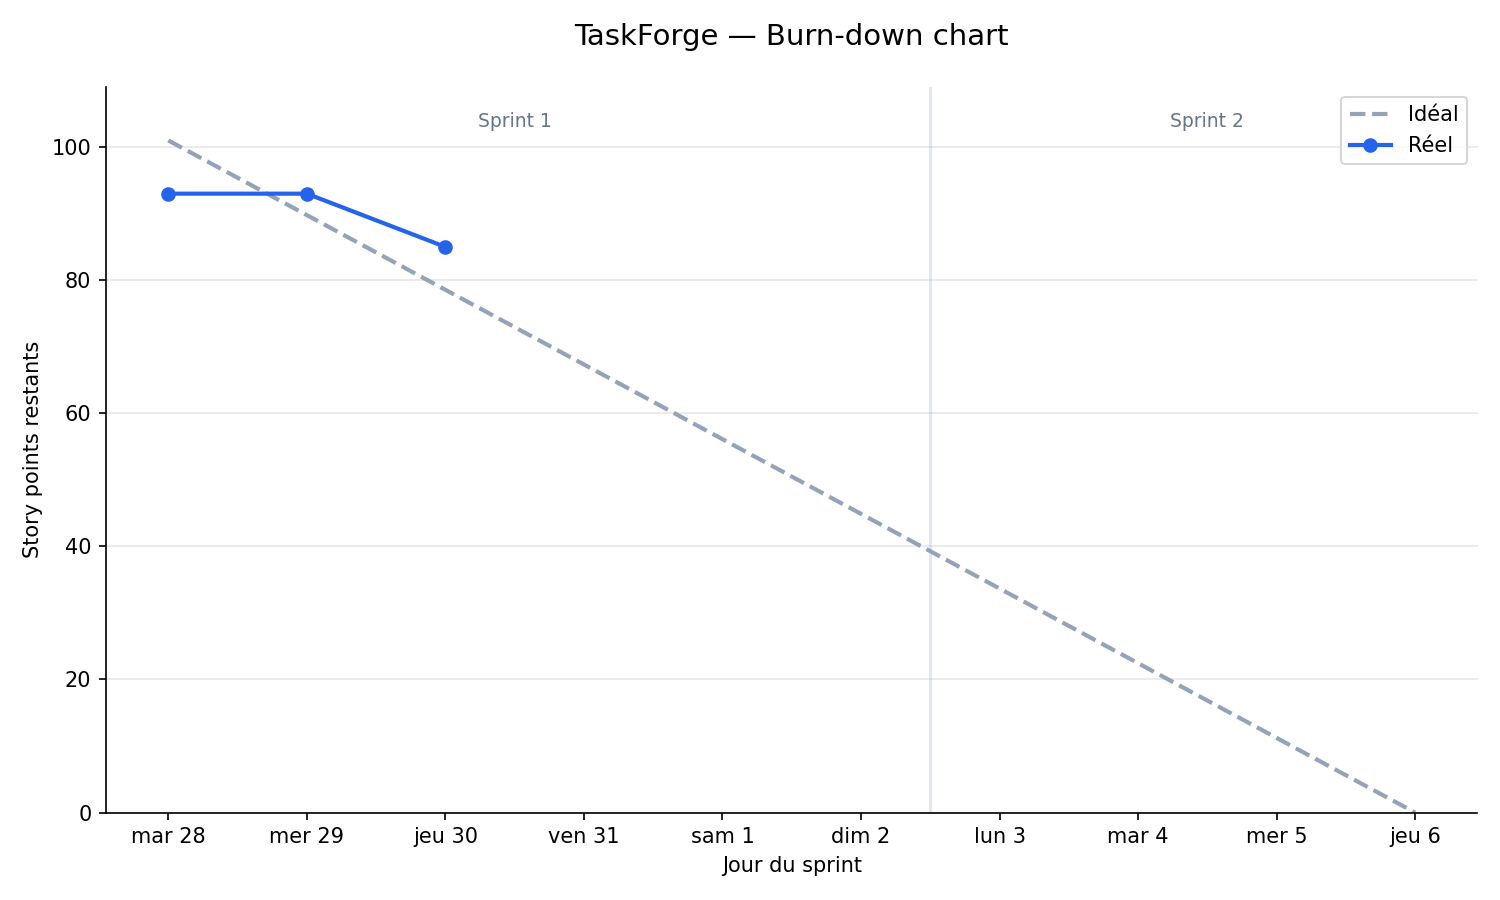
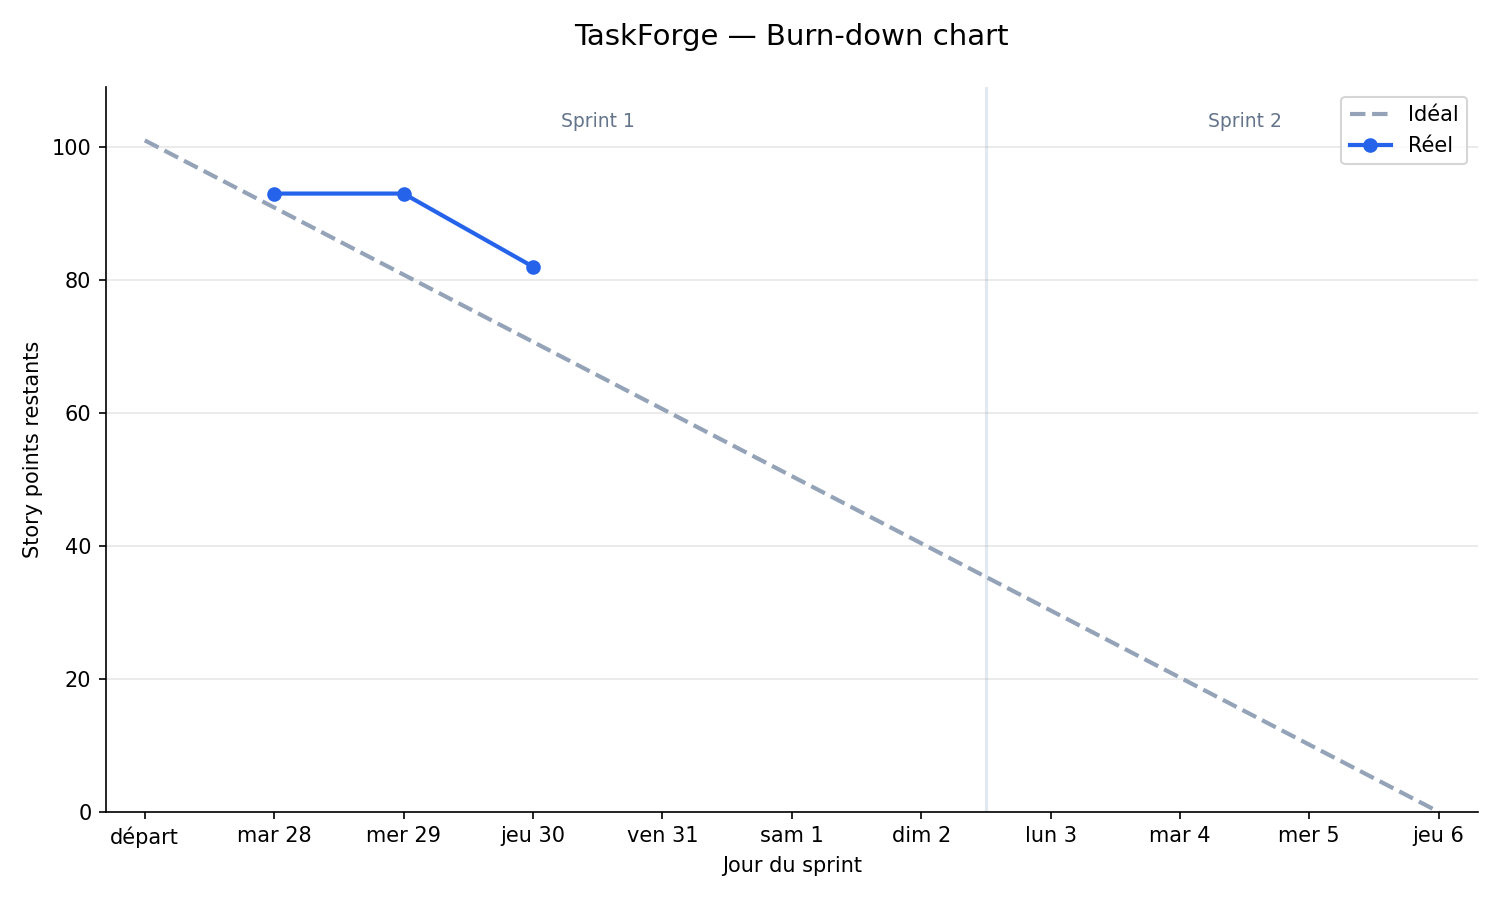
docs: corrige la convention du burndown et met à jour le suivi

diff --git a/pm/burndown.py b/pm/burndown.py
@@ -54,15 +54,19 @@ def main():
     jours = [j for j, _, _ in JOURS]
     labels = [lbl for _, _, lbl in JOURS]
 
-    # Ligne idéale : de TOTAL_SP au jour 1 jusqu'à 0 au dernier jour
+    # Convention : les relevés réels sont pris EN FIN de journée. La ligne idéale
+    # doit donc partir du total à un jour 0 — avant le début du sprint — et non au
+    # jour 1, sans quoi elle n'attendrait aucune avancée le premier jour et
+    # comparerait un début de journée à une fin de journée.
     dernier = jours[-1]
-    ideal = [TOTAL_SP * (dernier - j) / (dernier - 1) for j in jours]
+    jours_ideal = [0] + jours
+    ideal = [TOTAL_SP * (dernier - j) / dernier for j in jours_ideal]
 
     jours_reels = sorted(j for j in reel if j in jours)
     valeurs_reelles = [reel[j] for j in jours_reels]
 
     fig, ax = plt.subplots(figsize=(10, 6))
-    ax.plot(jours, ideal, "--", color="#94a3b8", linewidth=2, label="Idéal")
+    ax.plot(jours_ideal, ideal, "--", color="#94a3b8", linewidth=2, label="Idéal")
     if jours_reels:
         ax.plot(
             jours_reels,
@@ -82,8 +86,9 @@ def main():
     ax.set_title("TaskForge — Burn-down chart", fontsize=14, pad=20)
     ax.set_xlabel("Jour du sprint")
     ax.set_ylabel("Story points restants")
-    ax.set_xticks(jours)
-    ax.set_xticklabels(labels)
+    ax.set_xticks(jours_ideal)
+    ax.set_xticklabels(["départ"] + labels)
+    ax.set_xlim(-0.3, dernier + 0.3)
     ax.set_ylim(0, TOTAL_SP * 1.08)
     ax.grid(axis="y", alpha=0.3)
     ax.legend()

diff --git a/pm/daily-logs.md b/pm/daily-logs.md
@@ -53,9 +53,10 @@ Rotation des rôles : casquette PM le matin, dev la journée, QA en fin de journ
 
 - **Fait hier** : aucune avancée, journée non travaillée
 - **Prévu aujourd'hui** : TECH03 (Dockerfiles multi-stage et comparaison des tailles d'images)
-- **Réalisé** : TECH03, TECH04, TECH05 et TECH06. Gains d'image mesurés — frontend 400 → 62,5 Mo (−84 %), backend 394 → 174 Mo (−56 %). L'endpoint `/healthz` du frontend a été posé au passage dans `nginx.conf`, ce qui allège TECH08. Hooks pre-commit et commit-msg vérifiés en conditions réelles : les deux bloquent. La CI a détecté dès sa première exécution une incohérence entre le composant racine et son test, introduite manuellement pendant TECH02
-- **Blocages** : aucun
-- **SP restants** : 85 / 101
+- **Réalisé** : TECH03, TECH04, TECH05, TECH06 et TECH07. Gains d'image mesurés — frontend 400 → 62,5 Mo (−84 %), backend 394 → 174 Mo (−56 %). L'endpoint `/healthz` du frontend a été posé au passage dans `nginx.conf`, ce qui allège TECH08. Hooks pre-commit et commit-msg vérifiés en conditions réelles : les deux bloquent. La CI a détecté dès sa première exécution une incohérence entre le composant racine et son test, introduite manuellement pendant TECH02
+- **Blocages** : deux, levés — l'override `brace-expansion` appliqué au backend casse ESLint (le `minimatch` v3 embarqué appelle encore l'ancienne API), retiré et les 25 vulnérabilités assumées car exclusivement en dépendances de développement ; pino refuse les formateurs personnalisés avec `transport.targets`, contourné par `multistream`
+- **Convention du burndown corrigée** : la ligne idéale partait du jour 1 alors que les relevés sont pris en fin de journée, ce qui offrait une journée gratuite. Elle part désormais d'un point « départ » antérieur au jour 1
+- **SP restants** : 82 / 101
 
 ---
 
